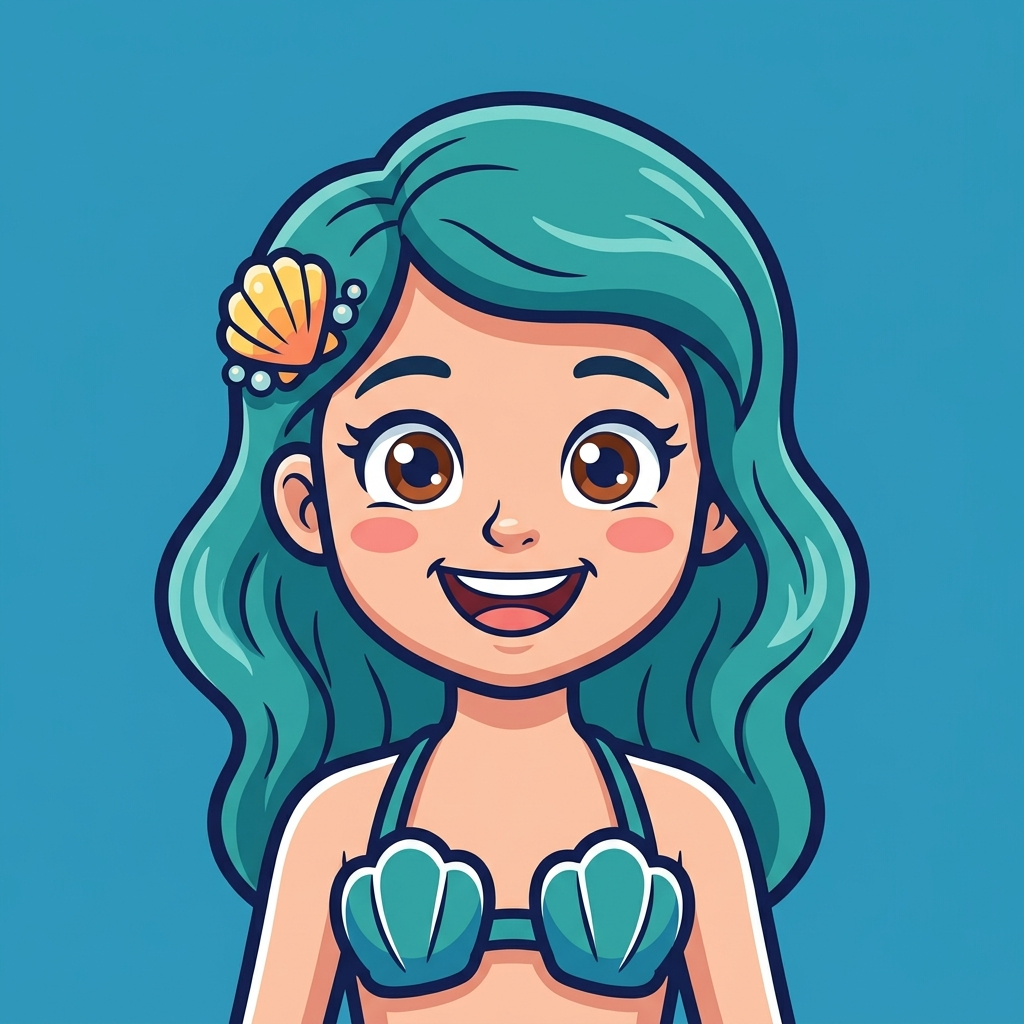
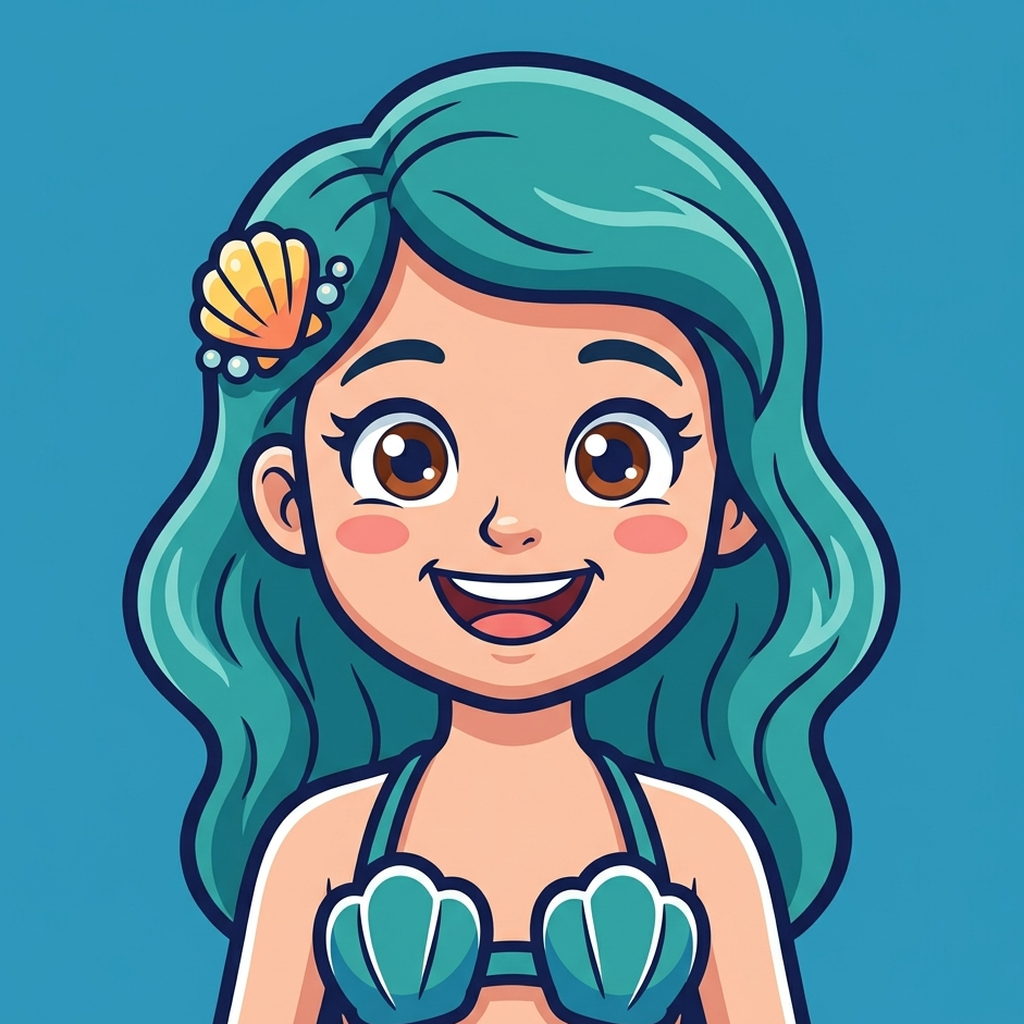
auto-commit for 70c03527-38ad-433e-9cf3-0f3c31b52dc1

diff --git a/scripts/normalize_avatars.py b/scripts/normalize_avatars.py
@@ -1,13 +1,11 @@
-import glob, os, shutil
+import glob, os
 from PIL import Image
 
 DIR = "/app/frontend/public/avatars"
 BACKUP = os.path.join(DIR, "_orig_backup")
-os.makedirs(BACKUP, exist_ok=True)
 
-TOP_MARGIN = 0.05      # small even margin above the head
-BOTTOM_MARGIN = 0.02   # character bottom nearly touches the frame bottom
-THRESH_BOTTOM_GAP = 6.0  # only fix avatars whose bottom gap exceeds this (%)
+TOP_MARGIN = 0.05       # small even margin above the head
+BOTTOM_MARGIN = -0.04   # character bleeds slightly off the bottom edge (sits low, no gap)
 
 
 def content_bbox(im):
@@ -27,36 +25,27 @@ def content_bbox(im):
     return left, top, right, bottom, bg
 
 
-def normalize(path):
-    im = Image.open(path).convert("RGB")
+def normalize(src, dst):
+    im = Image.open(src).convert("RGB")
     w, h = im.size
     left, top, right, bottom, bg = content_bbox(im)
     cw = right - left
     ch = bottom - top
-    bottom_gap = (h - 1 - bottom) / h * 100
-    if bottom_gap <= THRESH_BOTTOM_GAP:
-        return f"skip {os.path.basename(path)} (bottom_gap={bottom_gap:.1f}%)"
 
-    # choose square crop size S so content fits with desired margins
+    # square crop size S so content fits with desired vertical margins
     S = max(ch / (1 - TOP_MARGIN - BOTTOM_MARGIN), cw / 0.9)
     S = int(round(S))
     bottom_margin_px = BOTTOM_MARGIN * S
-    # position of content inside the SxS output
     crop_left = int(round(left - (S - cw) / 2))
     crop_top = int(round(bottom - (S - bottom_margin_px)))
 
     canvas = Image.new("RGB", (S, S), bg)
     canvas.paste(im, (-crop_left, -crop_top))
     out = canvas.resize((1024, 1024), Image.LANCZOS)
-    out.save(path)
-    return f"FIXED {os.path.basename(path)} (was bottom_gap={bottom_gap:.1f}%, S={S})"
+    out.save(dst)
+    return f"done {os.path.basename(dst)} (S={S})"
 
 
-files = sorted(glob.glob(os.path.join(DIR, "*.png")))
-for f in files:
-    # backup once
-    b = os.path.join(BACKUP, os.path.basename(f))
-    if not os.path.exists(b):
-        shutil.copy2(f, b)
-for f in files:
-    print(normalize(f))
+for b in sorted(glob.glob(os.path.join(BACKUP, "*.png"))):
+    dst = os.path.join(DIR, os.path.basename(b))
+    print(normalize(b, dst))
